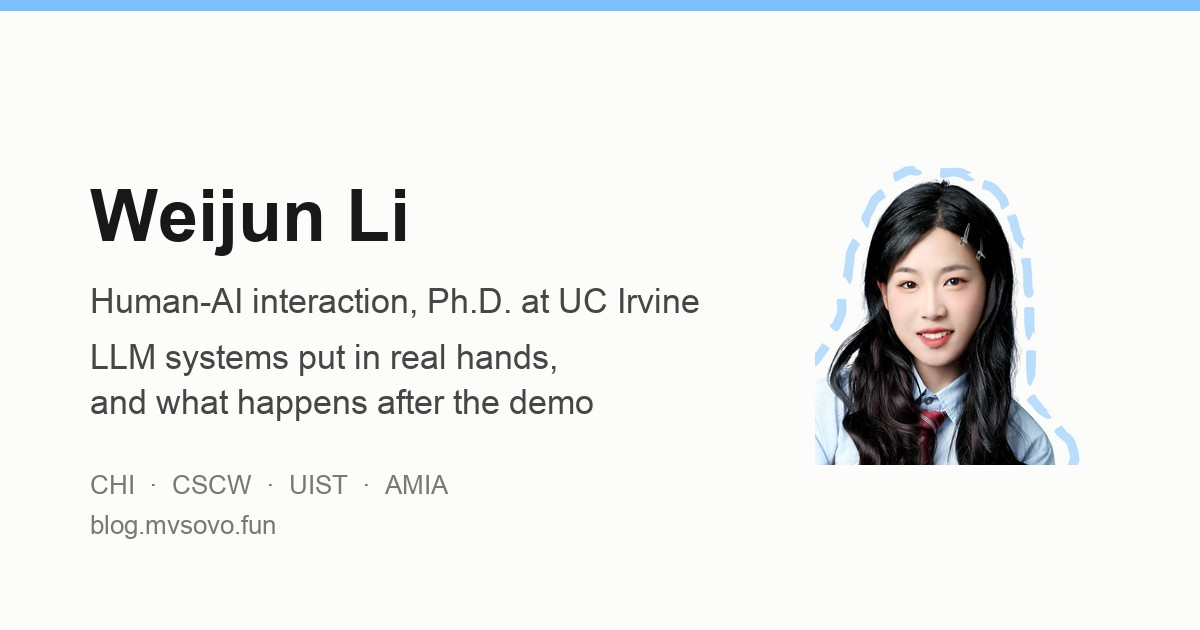
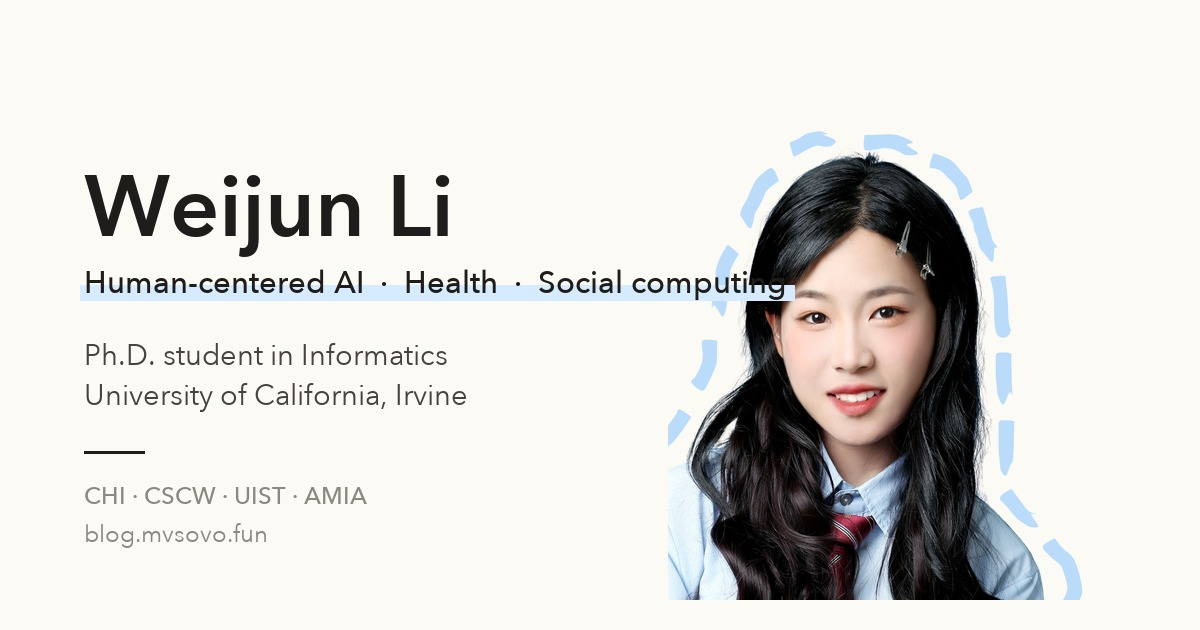
Fix pronouns in metadata, rebuild share card, tighten routes copy
- Metadata said he/his; corrected to she/her
- New Open Graph card in the site's own type and palette, with the
  current research areas instead of the old wording
- Add og:image width, height, and alt so platforms render the card
  without waiting to fetch the file
- Rewrite the routes intro, which read awkwardly

diff --git a/_includes/head.html b/_includes/head.html
@@ -14,6 +14,11 @@
 
   {%- seo -%}
 
+  <meta property="og:image:width" content="1200">
+  <meta property="og:image:height" content="630">
+  <meta property="og:image:alt" content="Weijun Li, Ph.D. student in Informatics at UC Irvine, working on human-centered AI, health, and social computing">
+  <meta name="twitter:image:alt" content="Weijun Li, Ph.D. student in Informatics at UC Irvine, working on human-centered AI, health, and social computing">
+
   <meta name="keywords" content="Weijun Li, 李潍君, human-centered AI, HCI researcher, human-computer interaction, social computing, AI and health, digital health, personal informatics, large language models, interactive systems, real-world deployment, online communities, CSCW, UC Irvine, PIE Lab, Daniel Epstein, Ph.D. student">
   {%- feed_meta -%}
 

diff --git a/index.html b/index.html
@@ -1,7 +1,7 @@
 ---
 layout: default
 title: Weijun Li
-description: "Weijun Li is a second-year Informatics Ph.D. student at UC Irvine, advised by Daniel Epstein in the PIE Lab. His research sits at the intersection of human-centered AI, health, and social computing. Work at CHI, CSCW, UIST, and AMIA."
+description: "Weijun Li is a second-year Informatics Ph.D. student at UC Irvine, advised by Daniel Epstein in the PIE Lab. Her research sits at the intersection of human-centered AI, health, and social computing, with work at CHI, CSCW, UIST, and AMIA."
 ---
 
 {% assign news = site.data.news.list %}
